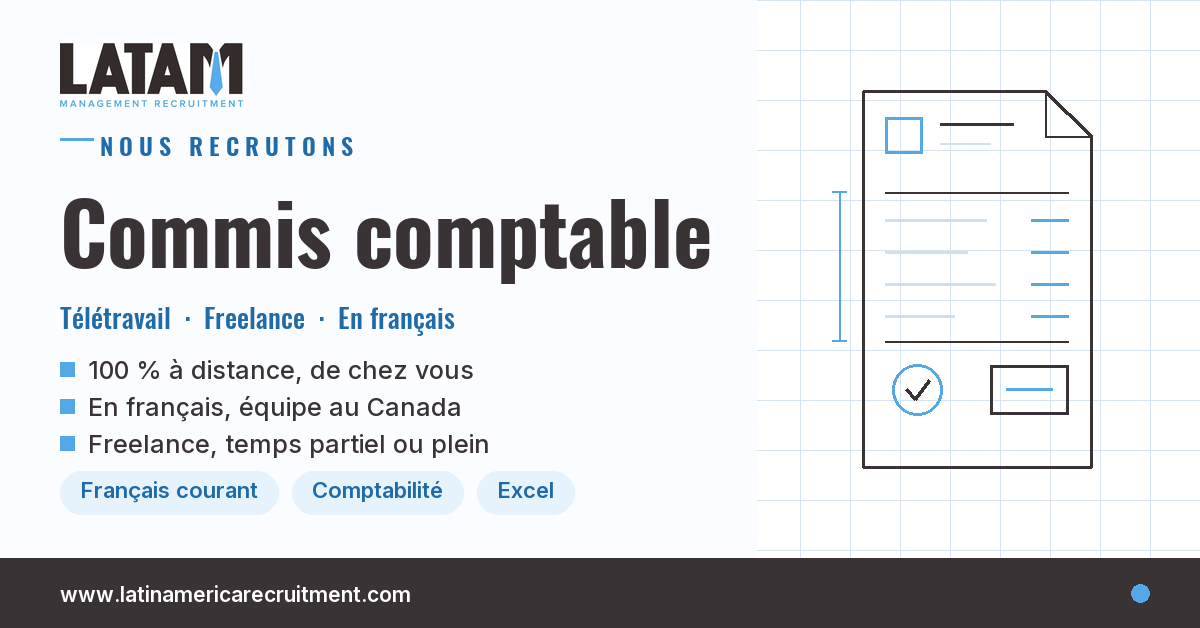
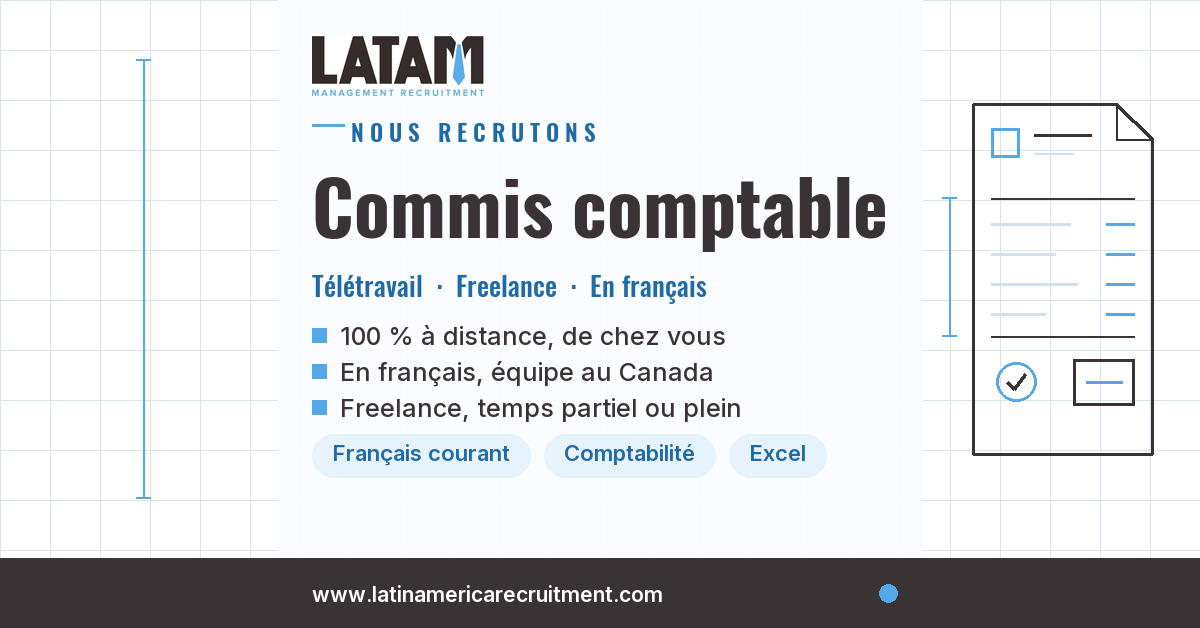
Accounting Clerk (French): 1.91:1 keeps essentials in the central square
Facebook search results cuts the landscape flyer to its central square; logo,
title, bullets, chips and URL now sit inside it. Other sizes unchanged.

diff --git a/make_flyers.py b/make_flyers.py
@@ -75,7 +75,7 @@ def save(img, suffix):
 def render_1x1():
     W = H = 1080; img = new_canvas(W, H); M = int(W * 0.065); FOOT_H = 92
     light_panel(img, [0, 0, int(W * PANEL_W), H]); d = ImageDraw.Draw(img)
-    lw, lh = paste_logo(img, M, M - 8, 86); d = ImageDraw.Draw(img)
+    lw, lh = paste_logo(img, M, M - 8, 86, role="logo"); d = ImageDraw.Draw(img)
     y = M - 8 + lh + 28; y = kicker_line(img, d, M, y, 29, KICKER) + 22
     tf = osw_b(96)
     for ln in TITLE_LINES:
@@ -110,7 +110,7 @@ def render_9x16():
     top, bottom = safe_zone(img)
     light_panel(img, [0, top - 34, W, bottom + 16]); d = ImageDraw.Draw(img)
     y = top + 12
-    lw, lh = paste_logo(img, M, y, 92); d = ImageDraw.Draw(img)
+    lw, lh = paste_logo(img, M, y, 92, role="logo"); d = ImageDraw.Draw(img)
     y += lh + 32; y = kicker_line(img, d, M, y, 34, KICKER) + 26
     tf = osw_b(fit_size(d, TITLE, osw_b, W - 2 * M, 130))
     text(img, d, (M, y), TITLE, tf, INK, large=True, role="title"); th, off = bbox_h(d, TITLE, tf); y += th + off + 20
@@ -134,29 +134,38 @@ def render_9x16():
 
 
 def render_191x1():
-    W, H = 1200, 628; img = new_canvas(W, H); M = int(W * 0.05); FOOT_H = 70
-    light_panel(img, [0, 0, int(W * 0.63), H]); d = ImageDraw.Draw(img)
-    lw, lh = paste_logo(img, M, int(H * 0.07), 64); d = ImageDraw.Draw(img)
-    y = int(H * 0.07) + lh + 20; y = kicker_line(img, d, M, y, 24, KICKER) + 16
-    tf = osw_b(fit_size(d, TITLE, osw_b, int(W * 0.56), 84))
+    """Right column and search results. Facebook search results cuts this format to its
+    central square, so logo, kicker, title, subhead, bullets, chips and the footer URL
+    all sit inside x=286..914; the renderer fails the render otherwise. The motif and
+    the dimension line outside the square are decoration."""
+    W, H = 1200, 628; img = new_canvas(W, H); FOOT_H = 70
+    x0, _, x1, _ = safe_box(img)
+    M = x0 + 26; CW = x1 - 26 - M                    # the text column inside the square
+    light_panel(img, [x0 - 8, 0, x1 + 8, H]); d = ImageDraw.Draw(img)
+    y = 36
+    lw, lh = paste_logo(img, M, y, 60, role="logo"); d = ImageDraw.Draw(img)
+    y += lh + 18; y = kicker_line(img, d, M, y, 23, KICKER) + 12
+    tf = osw_b(fit_size(d, TITLE, osw_b, CW, 84))
     text(img, d, (M, y), TITLE, tf, INK, large=True, role="title"); th, off = bbox_h(d, TITLE, tf); y += th + off + 12
-    sf = osw_m(fit_size(d, SUBHEAD, osw_m, int(W * 0.56), 27))
-    text(img, d, (M, y), SUBHEAD, sf, TEXT_ACCENT, role="subhead"); sh, so = bbox_h(d, SUBHEAD, sf); y += sh + so + 18
+    sf = osw_m(fit_size(d, SUBHEAD, osw_m, CW, 27))
+    text(img, d, (M, y), SUBHEAD, sf, TEXT_ACCENT, role="subhead"); sh, so = bbox_h(d, SUBHEAD, sf); y += sh + so + 16
     bf = inter_m(25)
     for b in BULLETS_SHORT:
         d.rectangle([M, y + 8, M + 14, y + 22], fill=ACCENT)
-        text(img, d, (M + 28, y), b, bf, INK, role="bullet"); y += 37
+        text(img, d, (M + 28, y), b, bf, INK, role="bullet"); y += 36
     y += 6
-    y, rows = chip_row(img, d, M, y, CHIPS_SHORT, inter_sb(22), int(W * 0.56)); one_row(rows, "1.91x1")
+    y, rows = chip_row(img, d, M, y, CHIPS_SHORT, inter_sb(22), CW); one_row(rows, "1.91x1")
     fits(y, img, FOOT_H, "chips")
-    invoice_motif(img, int(W * 0.815), int(H * 0.445), int(W * 0.25), int(H * 0.60))
-    footer_band(img, FOOT_H); save(img, "1.91x1_1200x628")
+    # Outside the square: decoration only.
+    invoice_motif(img, (x1 + W) // 2 + 6, int(H * 0.445), 236, int(H * 0.56))
+    dimension_line(d, x0 // 2, 60, x0 // 2, H - FOOT_H - 60)
+    footer_band(img, FOOT_H, x=M, dot_x=x1 - 26); save(img, "1.91x1_1200x628")
 
 
 def render_4x5():
     W, H = 1080, 1350; img = new_canvas(W, H); M = int(W * 0.065); FOOT_H = 96
     light_panel(img, [0, 0, int(W * PANEL_W), H]); d = ImageDraw.Draw(img)
-    lw, lh = paste_logo(img, M, M, 92); d = ImageDraw.Draw(img)
+    lw, lh = paste_logo(img, M, M, 92, role="logo"); d = ImageDraw.Draw(img)
     y = M + lh + 36; y = kicker_line(img, d, M, y, 30, KICKER) + 28
     tf = osw_b(104)
     for ln in TITLE_LINES:
